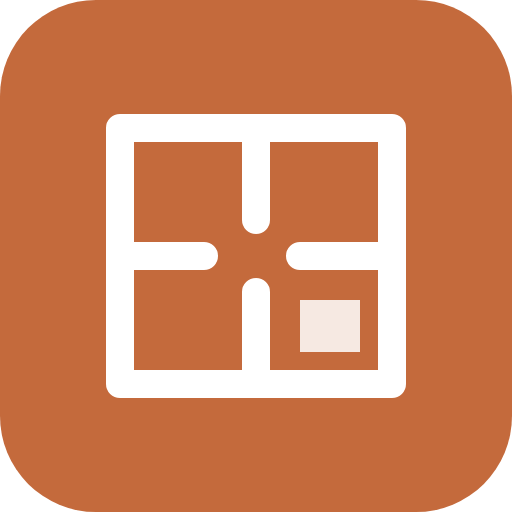
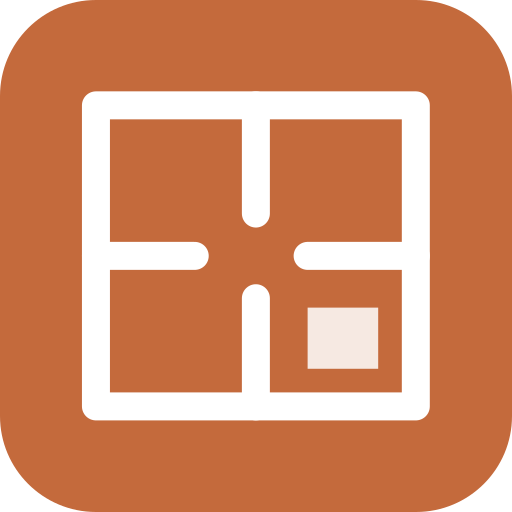
Tasarla 0.1.5 — marka işaretleri 2. aşama: onaylı ikon seti
- uret.mjs ile public/favicon.svg/ico, 32 PNG, Apple 180, 192/512, maskable; eski icon.svg kalktı
- index.html head bloğu ve manifest marka.json'dan (theme_color #c46a3c, ayrı maskable, ?v=1)
- Üst çubuk ve Hakkında işareti favicon.svg, köşe %18,75
- nginx: kök /favicon.ico isteği public/favicon.ico'ya

diff --git a/index.html b/index.html
@@ -6,7 +6,14 @@
 <meta name="apple-mobile-web-app-capable" content="yes">
 <meta name="mobile-web-app-capable" content="yes">
 <meta name="apple-mobile-web-app-status-bar-style" content="black-translucent">
-<meta name="theme-color" content="#f1f5f9">
+<link rel="icon" href="public/favicon.ico?v=1" sizes="48x48">
+<link rel="icon" type="image/svg+xml" sizes="any" href="public/favicon.svg?v=1">
+<link rel="icon" type="image/png" sizes="32x32" href="public/favicon-32.png?v=1">
+<link rel="apple-touch-icon" sizes="180x180" href="public/apple-touch-icon.png?v=1">
+<link rel="manifest" href="manifest.webmanifest">
+<meta name="theme-color" content="#c46a3c">
+<meta name="application-name" content="tarus Tasarla">
+<meta name="apple-mobile-web-app-title" content="Tasarla">
 <meta name="description" content="tarus Tasarla: ücretsiz, giriş gerektirmeyen 2B plan ve 3B mekân tasarımı. Türkiye ölçüleriyle tefriş, mahal alanları ve döşeme maliyeti.">
 <title>tarus Tasarla</title>
 <!-- Bağlantı önizlemesi (Open Graph). nginx SSI (deploy/nginx.conf): /?t=<kod> isteğinde
@@ -27,18 +34,14 @@
 <meta property="og:image:alt" content="tarus Tasarla">
 <meta name="twitter:card" content="summary">
 <!--# endif -->
-<link rel="icon" href="public/icon.svg?v=1" type="image/svg+xml" sizes="any">
-<link rel="icon" href="public/favicon-32.png?v=1" type="image/png" sizes="32x32">
-<link rel="apple-touch-icon" href="public/icon-192.png?v=1">
-<link rel="manifest" href="manifest.webmanifest">
 <link rel="preconnect" href="https://fonts.googleapis.com">
 <link rel="preconnect" href="https://fonts.gstatic.com" crossorigin>
 <link rel="stylesheet" href="https://fonts.googleapis.com/css2?family=Inter:wght@300;400;500;600;700;800;900&display=swap">
 <style>@layer base, components;</style>
-<link rel="stylesheet" href="styles/tarus.css?v=0.1.4">
-<link rel="stylesheet" href="styles/tarus-toolbar.css?v=0.1.4">
-<link rel="stylesheet" href="styles/tasarla.css?v=0.1.4">
-<script src="js/tema.js?v=0.1.4"></script>
+<link rel="stylesheet" href="styles/tarus.css?v=0.1.5">
+<link rel="stylesheet" href="styles/tarus-toolbar.css?v=0.1.5">
+<link rel="stylesheet" href="styles/tasarla.css?v=0.1.5">
+<script src="js/tema.js?v=0.1.5"></script>
 <script type="importmap">
 {"imports":{
   "three":"./vendor/three/three.module.min.js",
@@ -129,7 +132,7 @@
 <div class="app">
   <header class="ust kart tarus-surface-card">
     <div class="marka">
-      <img src="public/icon.svg?v=1" alt="tarus Tasarla">
+      <img src="public/favicon.svg?v=1" alt="tarus Tasarla">
       <div class="marka-yazi"><b>tarus <span>Tasarla</span></b><small id="subtitle">Örnek konut planı</small></div>
     </div>
     <div class="spacer"></div>
@@ -281,12 +284,12 @@
   </footer>
 </div>
 <div id="tarus-toasts" aria-live="polite"></div>
-<script src="js/ikonlar.js?v=0.1.4"></script>
-<script src="js/surum.js?v=0.1.4"></script>
-<script src="js/kutuphane.js?v=0.1.4"></script>
-<script src="js/pusula-oturum.js?v=0.1.4"></script>
-<script src="js/pusula-aktar.js?v=0.1.4"></script>
-<script src="js/kabuk.js?v=0.1.4"></script>
+<script src="js/ikonlar.js?v=0.1.5"></script>
+<script src="js/surum.js?v=0.1.5"></script>
+<script src="js/kutuphane.js?v=0.1.5"></script>
+<script src="js/pusula-oturum.js?v=0.1.5"></script>
+<script src="js/pusula-aktar.js?v=0.1.5"></script>
+<script src="js/kabuk.js?v=0.1.5"></script>
 <script src="public/tarus-context-menu.js"></script>
 <script>
 /* ======================= Yardımcılar ======================= */
@@ -1409,7 +1412,7 @@ $('#libAraTemizle').onclick = () => { libFilter = ''; $('#libAra').value = ''; $
 $('#tip').textContent = TIPS()['2d'];
 fitView(); renderAll();
 </script>
-<script src="js/galeri.js?v=0.1.4"></script>
+<script src="js/galeri.js?v=0.1.5"></script>
 <script type="module">
 /* ============================================================
  *  3B sahne (three.js) — 2B ile aynı state / ui'yi kullanır, geçişler animasyonludur:

diff --git a/styles/tasarla.css b/styles/tasarla.css
@@ -37,7 +37,7 @@ input,textarea{-webkit-user-select:text;user-select:text}
 /* ---------- Üst çubuk ---------- */
 .ust{grid-column:1/-1;display:flex;align-items:center;gap:12px;min-height:64px;padding:10px 12px 10px 14px}
 .marka{display:flex;align-items:center;gap:12px;min-width:0}
-.marka img{width:40px;height:40px;border-radius:10px;flex:none}
+.marka img{width:40px;height:40px;border-radius:18.75%;flex:none}
 .marka-yazi{display:flex;flex-direction:column;line-height:1.2;min-width:0}
 .marka-yazi b{font-size:var(--fs-lg);font-weight:800;letter-spacing:-.01em}
 .marka-yazi b span{color:var(--brand-tasarla)}
@@ -264,7 +264,7 @@ footer b{color:var(--text);font-weight:600}
 /* Hakkında */
 .hakkinda{display:grid;grid-template-columns:minmax(260px,.85fr) minmax(0,1.15fr);gap:16px}
 .hakkinda .kutu{border:1px solid var(--bdr-2);border-radius:14px;padding:18px;background:var(--ovl-2)}
-.hakkinda .rozet{width:64px;height:64px;border-radius:16px}
+.hakkinda .rozet{width:64px;height:64px;border-radius:18.75%}
 .hakkinda h3{margin:12px 0 4px;font-size:28px;font-weight:900;letter-spacing:-.02em}
 .hakkinda h3 span{color:var(--brand-tasarla)}
 .hakkinda dl{display:grid;grid-template-columns:auto 1fr;gap:4px 12px;margin:14px 0 0;font-size:var(--fs-sm)}

diff --git a/js/surum.js b/js/surum.js
@@ -2,9 +2,11 @@
  * ozluk/surum-notlari/surum-notlari-tasarla.md. Uygulama içi not en çok 3 cümle.
  * 2026-10-04: numaralar 0.0.1'den yeniden düzenlendi (1.0.0-1.0.2 -> 0.0.1-0.0.3). */
 (function (kok) {
-  const APP_VERSION = '0.1.4';
+  const APP_VERSION = '0.1.5';
   const ILK_YAYIN = '2 Ekim 2026';
   const SURUM_NOTLARI = [
+    {surum: '0.1.5', tarih: '6 Ekim 2026',
+      not: 'Tasarla’nın işareti yenilendi: sekme ikonu, ana ekran ikonu, üst çubuk ve Hakkında’da onaylı tarus işaret setinden kiremit zemin üstünde beyaz plan, köşeler bütün tarus uygulamalarıyla aynı oranda.'},
     {surum: '0.1.4', tarih: '6 Ekim 2026',
       not: 'Hızlı Bakış\'ta tasarımları başlık, açıklama ya da etikete göre arayabilir, etiket düğmeleriyle süzebilirsiniz. Paylaşırken tasarımınıza en çok beş etiket ekleyebilirsiniz. Paylaşılan bağlantı mesajlaşma uygulamalarında tasarımın görseli ve başlığıyla önizleniyor.'},
     {surum: '0.1.3', tarih: '6 Ekim 2026',

diff --git a/js/kabuk.js b/js/kabuk.js
@@ -115,7 +115,7 @@
     const S = TasarlaSurum;
     dialog({baslik: 'Hakkında', genislik: 'genis', govde: `<div class="hakkinda">
       <div class="kutu">
-        <img class="rozet" src="public/icon.svg?v=1" alt="">
+        <img class="rozet" src="public/favicon.svg?v=1" alt="">
         <h3>tarus <span>Tasarla</span></h3>
         <div class="muted">Konut planını 2B ve 3B tasarlayın, tefrişi Türkiye'de yaygın ölçülerle yapın. Giriş gerekmez; planınız yalnız bu tarayıcıda saklanır.</div>
         <dl><dt>Uygulama</dt><dd>tarus Tasarla</dd><dt>Sürüm</dt><dd>${esc(S.APP_VERSION)}</dd><dt>İlk yayın</dt><dd>${esc(S.ILK_YAYIN)}</dd></dl>
